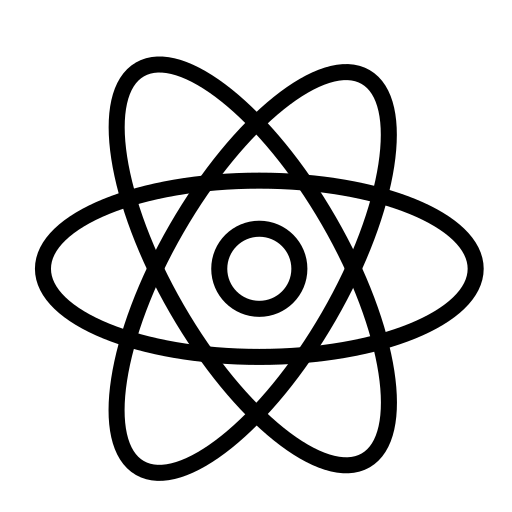
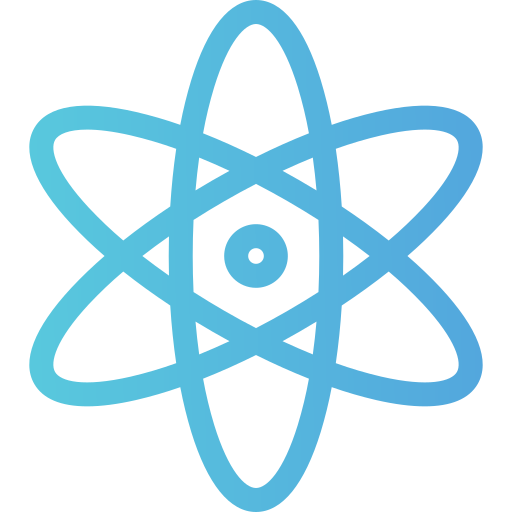
Criado novos icones

diff --git a/index.html b/index.html
@@ -46,12 +46,13 @@
     </section>
 
     <section class="about" id="about">
+        <div class="about-img">
+            <img src="/assets/imgs/about-me.svg" alt="" />
+          </div>
       <div class="about-text">
         <h2>Sobre <span>Mim</span></h2>
         <h4>Como Desenvolvedor Front-End</h4>
-        <div class="about-img">
-          <img src="/assets/imgs/about-me.svg" alt="" />
-        </div>
+        
         <p>
           Comecei minha carreira como Desenvolvedor porque meu trabalho exigia
           que as ordens de serviço fossem digitadas manualmente. Percebi a
@@ -76,6 +77,7 @@
         <img src="/assets/imgs/CSS.png" alt="" />
         <img src="/assets/imgs/JS.png" alt="" />
         <img src="/assets/imgs/PHP.png" alt="" />
+        <img src="/assets/imgs/React.png" alt="" />
       </div>
       <div class="services-content">
         <div class="box">

diff --git a/assets/style.css b/assets/style.css
@@ -510,6 +510,7 @@ background: var(--main-color);
         grid-template-columns: 1fr;
     }
     .about-img{
+        display: none;
         text-align: center;
         order: 2;
     }
